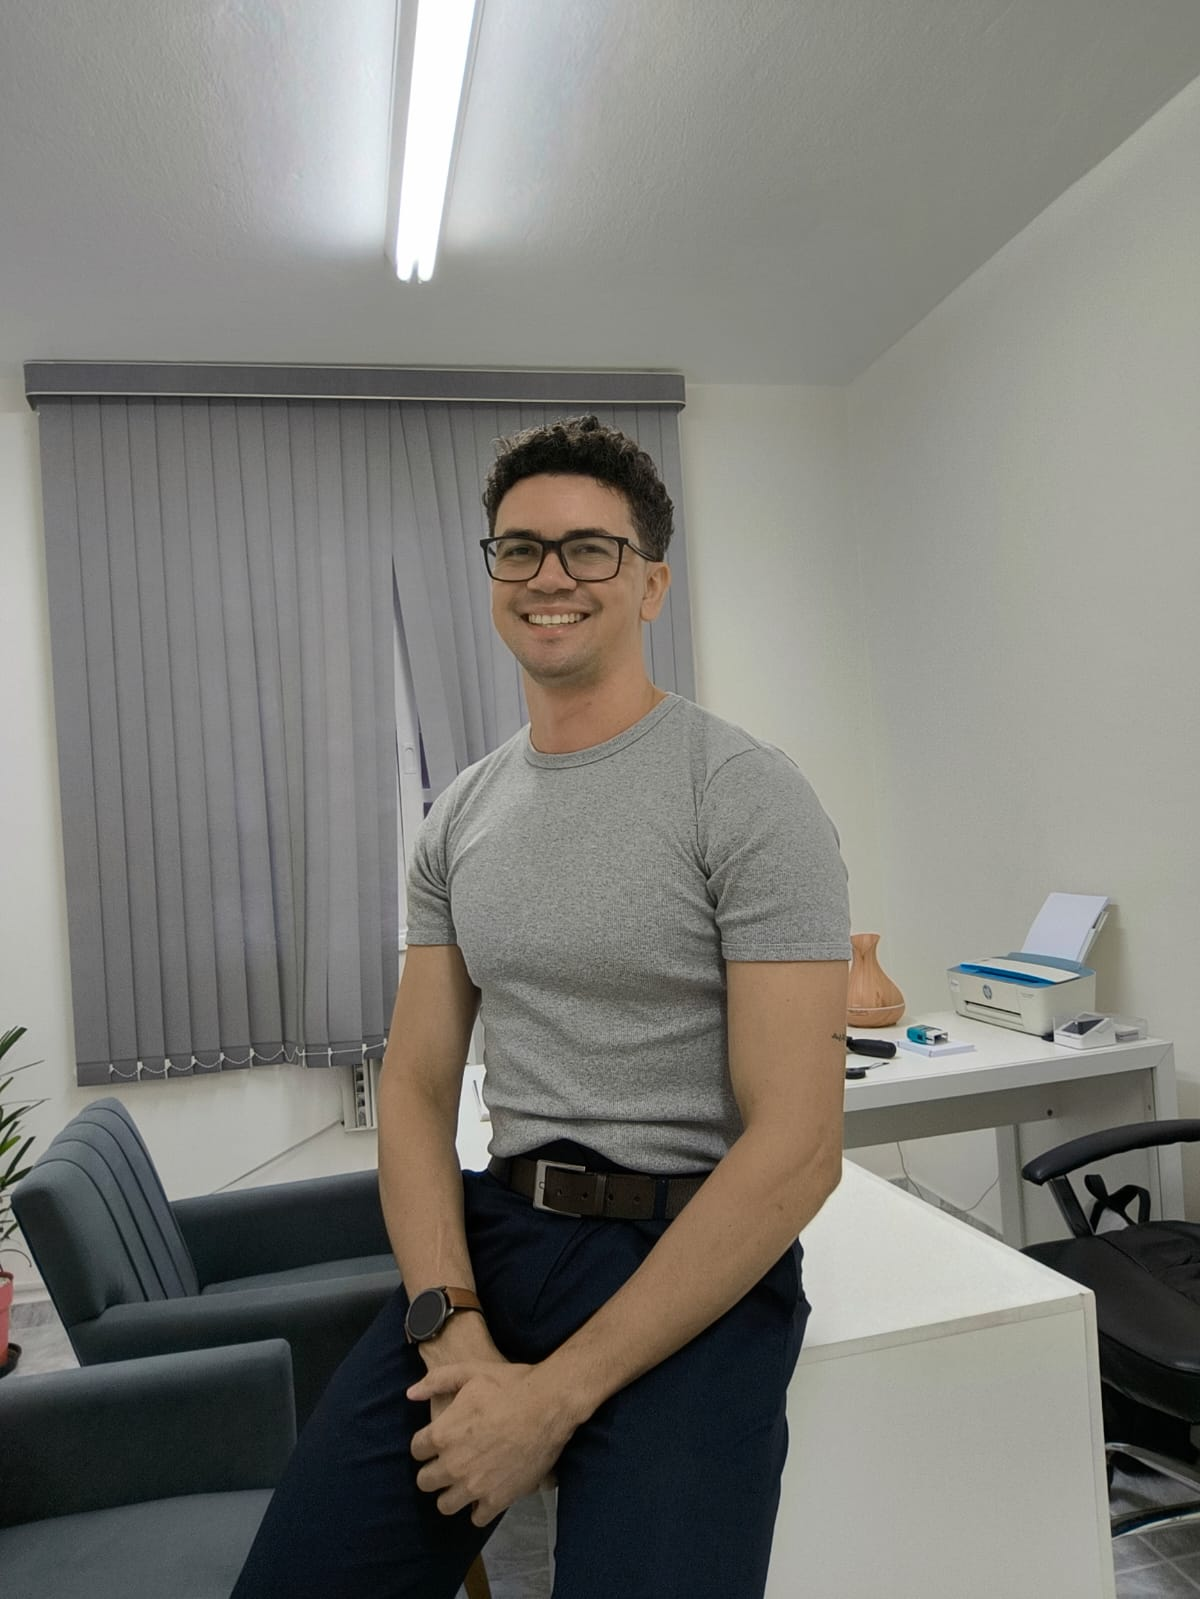
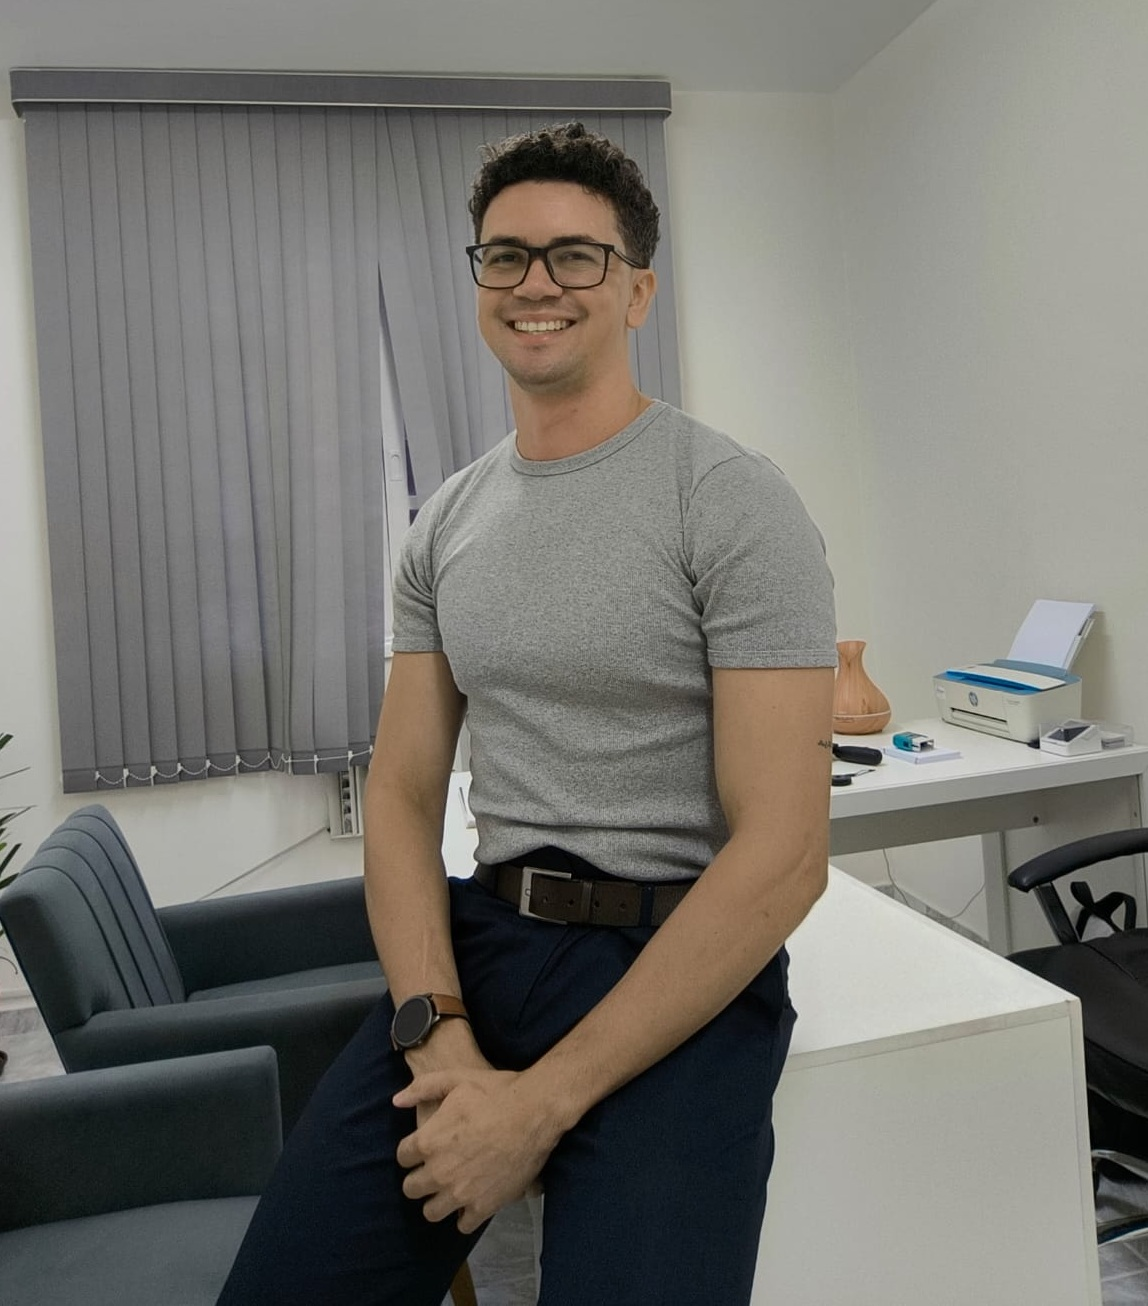
adicionando sessao sobre-mim

diff --git a/css/global.css b/css/global.css
@@ -26,6 +26,10 @@ a{
     transition: 0.1s all;
 }
 
+ul, li{
+    list-style-type: none;
+}
+
 #background{
   position: absolute;
   inset: 0;
@@ -217,6 +221,59 @@ section{
     color: var(--cor-secundaria);
     margin: 0 2rem;
     flex-shrink: 0;
+}
+
+#sobre-mim{
+    display: flex;
+    align-items: center;
+    gap: 5rem;
+}
+
+#foto-alvaro{
+    width: 50%;
+}
+
+#foto-alvaro img{
+    width: 100%;
+    border-radius: var(--radius-padrao);
+}
+
+#sobre-mim article{
+    display: flex;
+    flex-direction: column;
+    gap: 2rem;
+    width: 50%;
+}
+
+#sobre-mim article h1{
+    font-size: 3rem;
+}
+
+#sobre-mim article p{
+    color: var(--cor-light);
+}
+
+.palavra-destacada{
+    color: var(--cor-primaria);
+}
+
+#sobre-mim article ul{
+    display: flex;
+    flex-direction: column;
+    gap: 0.5rem;
+}
+
+#sobre-mim article ul li{
+    display: flex;
+    align-items: center;
+    gap: 1rem;
+}
+
+#sobre-mim article ul li span{
+    padding: 0.5rem;
+    border-radius: 50%;
+    color: var(--cor-secundaria);
+    background-color: color-mix(in srgb, var(--cor-secundaria) 10%, white);
 }
 
 footer{

diff --git a/index.html b/index.html
@@ -67,13 +67,36 @@
             </div>
         </div>
 
-        <section id="metodo"></section>
+        <!-- <section id="metodo"></section> -->
 
-        <section id="sobre-mim"></section>
+        <section id="sobre-mim">
+            <figure id="foto-alvaro">
+                <img src="assets/img/alvaro_mezacasa.jpeg" alt="Foto de Álvaro Mezacasa">
+            </figure>
+            <article>
+                <h1>Sua <strong class="palavra-destacada">saúde</strong> guiada por <strong class="palavra-destacada">ciência</strong>, não por modismos</h1>
+                <p>Lorem ipsum, dolor sit amet consectetur adipisicing elit. Unde recusandae distinctio ad aliquid alias, debitis corrupti eligendi fugiat. Voluptates blanditiis quis repudiandae temporibus illum velit molestiae rem delectus mollitia reprehenderit</p>
+                <p>Lorem, ipsum dolor sit amet consectetur adipisicing elit. Quisquam, dolor ad debitis voluptas tenetur veniam non molestias assumenda saepe. Rem ducimus reprehenderit sed officia dolores quis temporibus incidunt aperiam est.</p>
+                <ul>
+                    <li>
+                        <span>✔️</span>
+                        <p>Texto 1</p>
+                    </li>
+                    <li>
+                        <span>✔️</span>
+                        <p>Texto 2</p>
+                    </li>
+                    <li>
+                        <span>✔️</span>
+                        <p>Texto 3</p>
+                    </li>
+                </ul>
+            </article>
+        </section>
 
-        <section id="resultado"></section>
+        <!-- <section id="resultado"></section>
 
-        <section id="agendar-wpp"></section>
+        <section id="agendar-wpp"></section> -->
     </main>
 
     <footer>

diff --git a/css/media-query.css b/css/media-query.css
@@ -28,7 +28,7 @@
     #banner-conteudo{
         max-width: 90%;
     }
-    #banner h1{
+    #banner h1, #sobre-mim h1{
         font-size: 2.5rem;
     }
 
@@ -43,6 +43,17 @@
 
     .track span{
         margin: 0 1rem;
+    }
+
+    #sobre-mim{
+        flex-direction: column-reverse;
+        width: 80%;
+        text-align: center;
+        gap: 2rem;
+    }
+
+    #foto-alvaro, #sobre-mim article{
+        width: 100%;
     }
 
     footer{